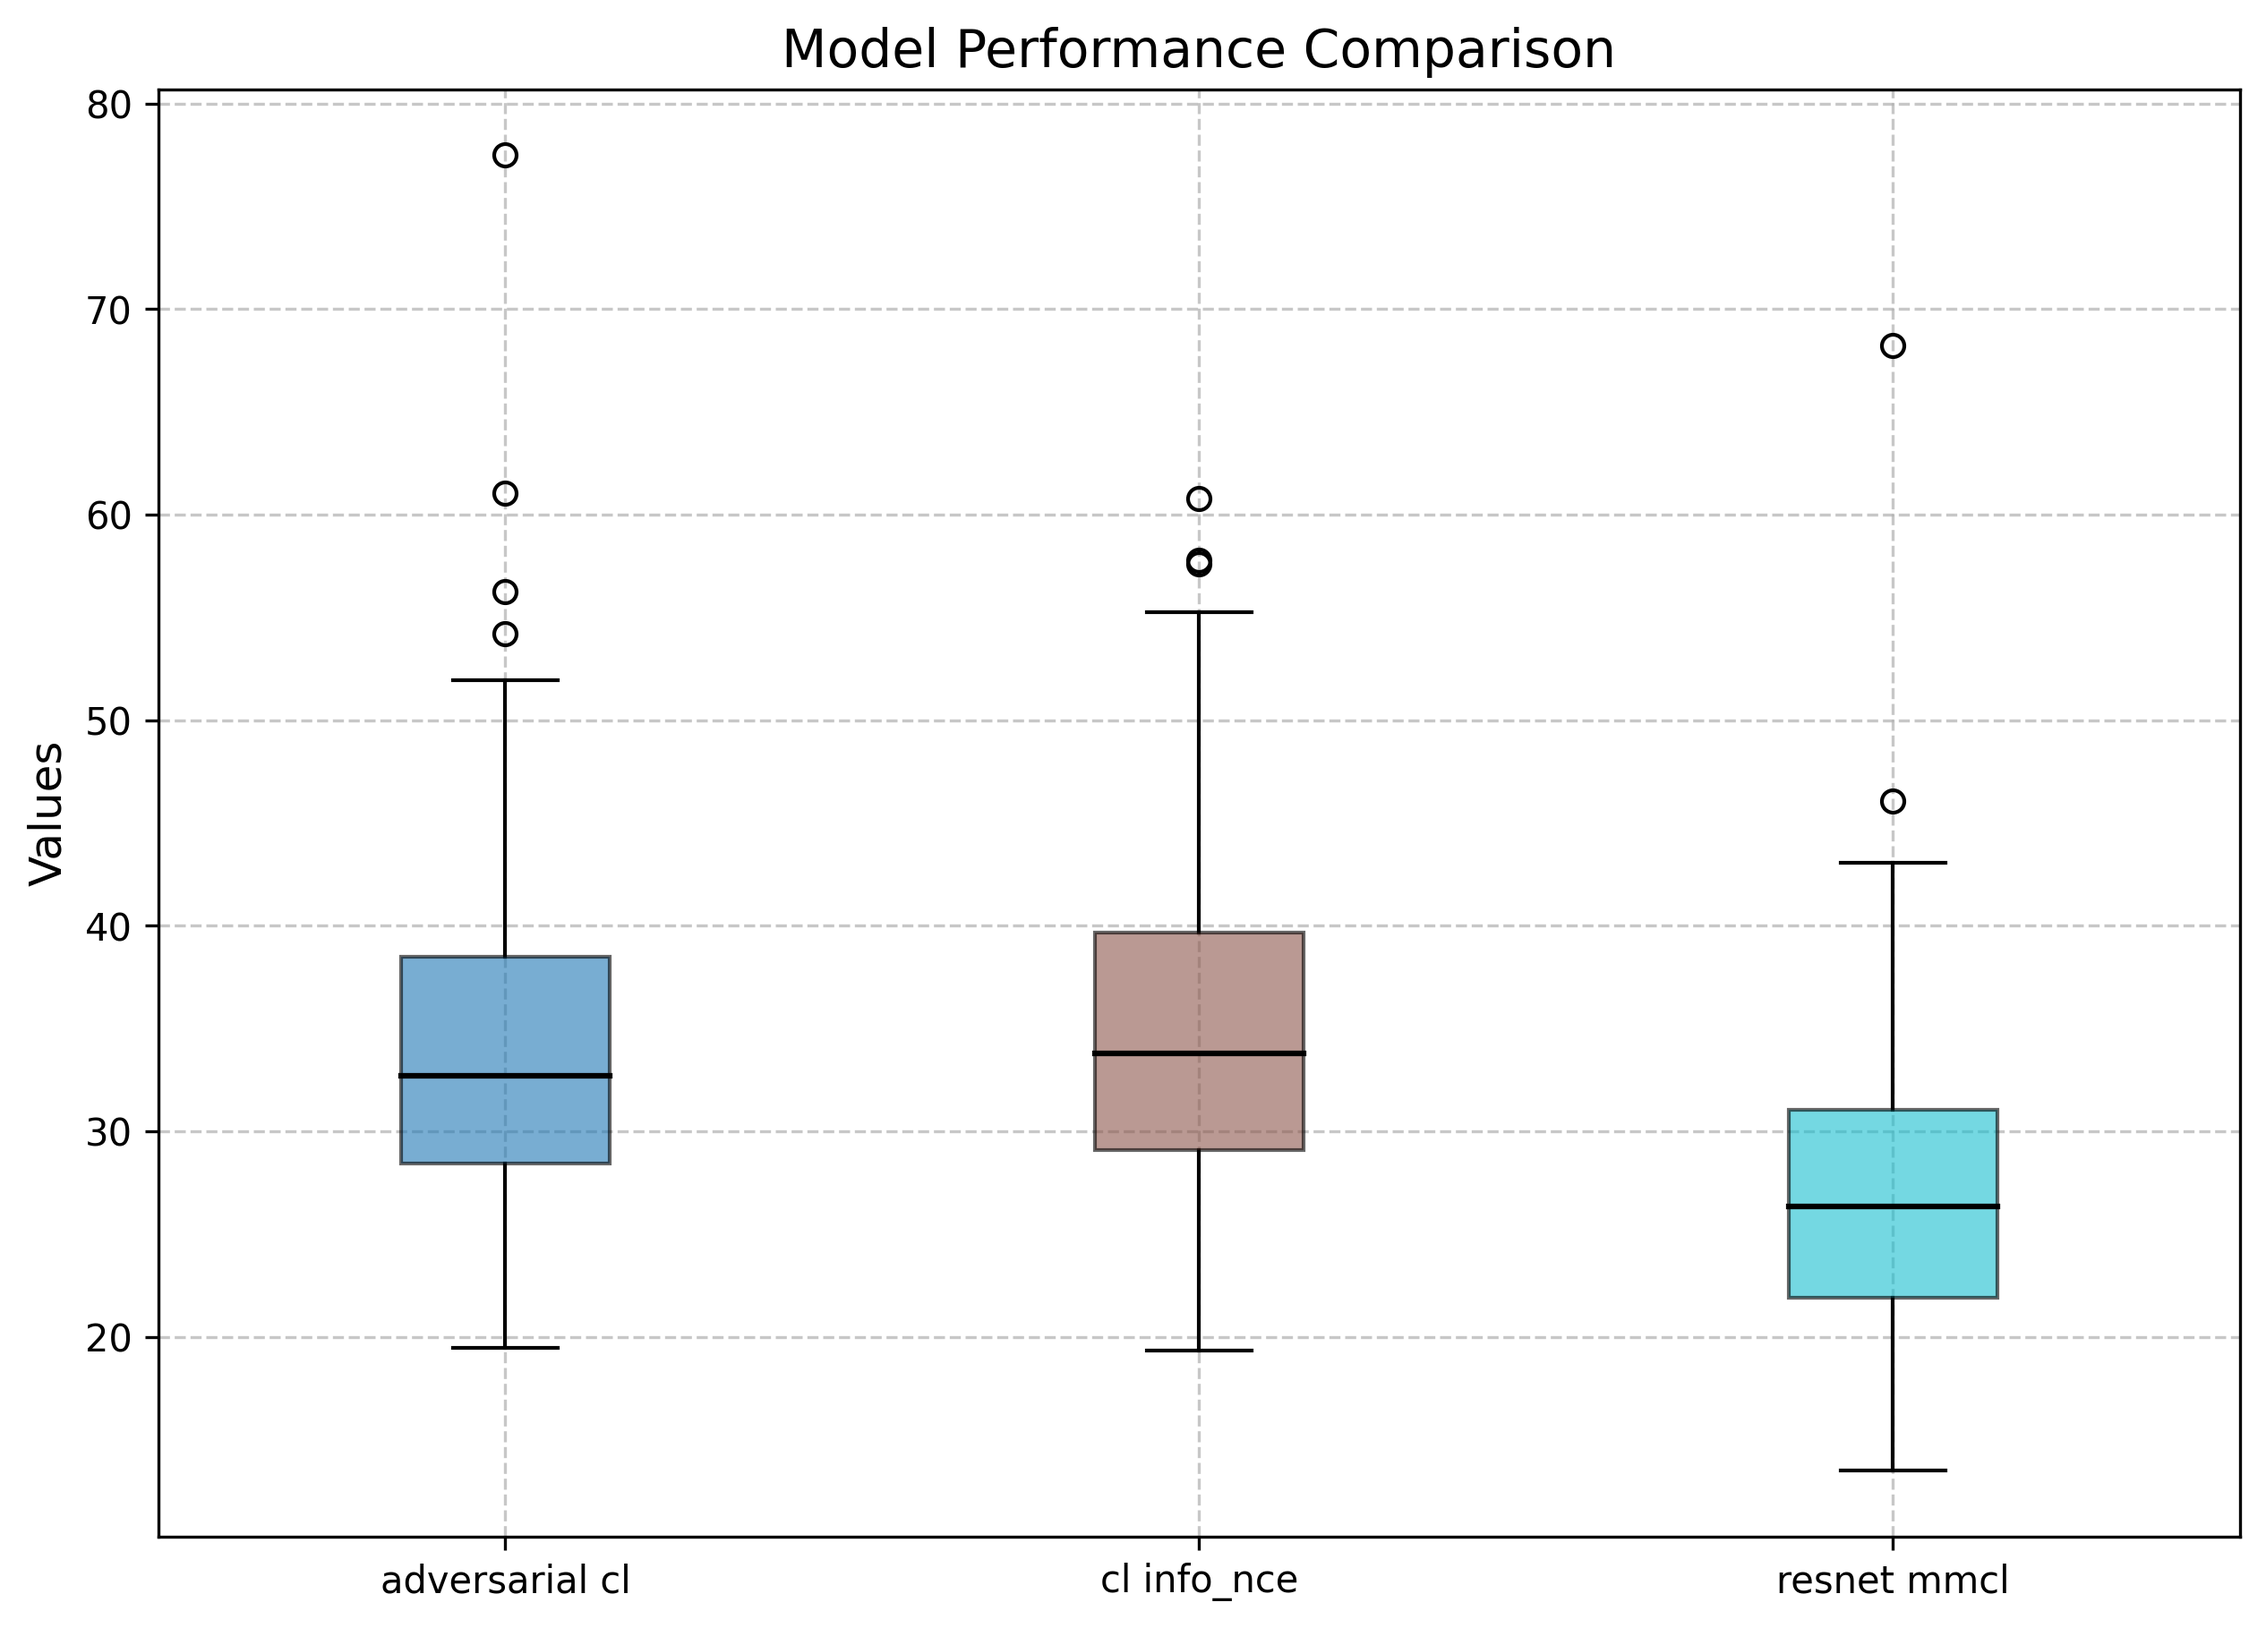
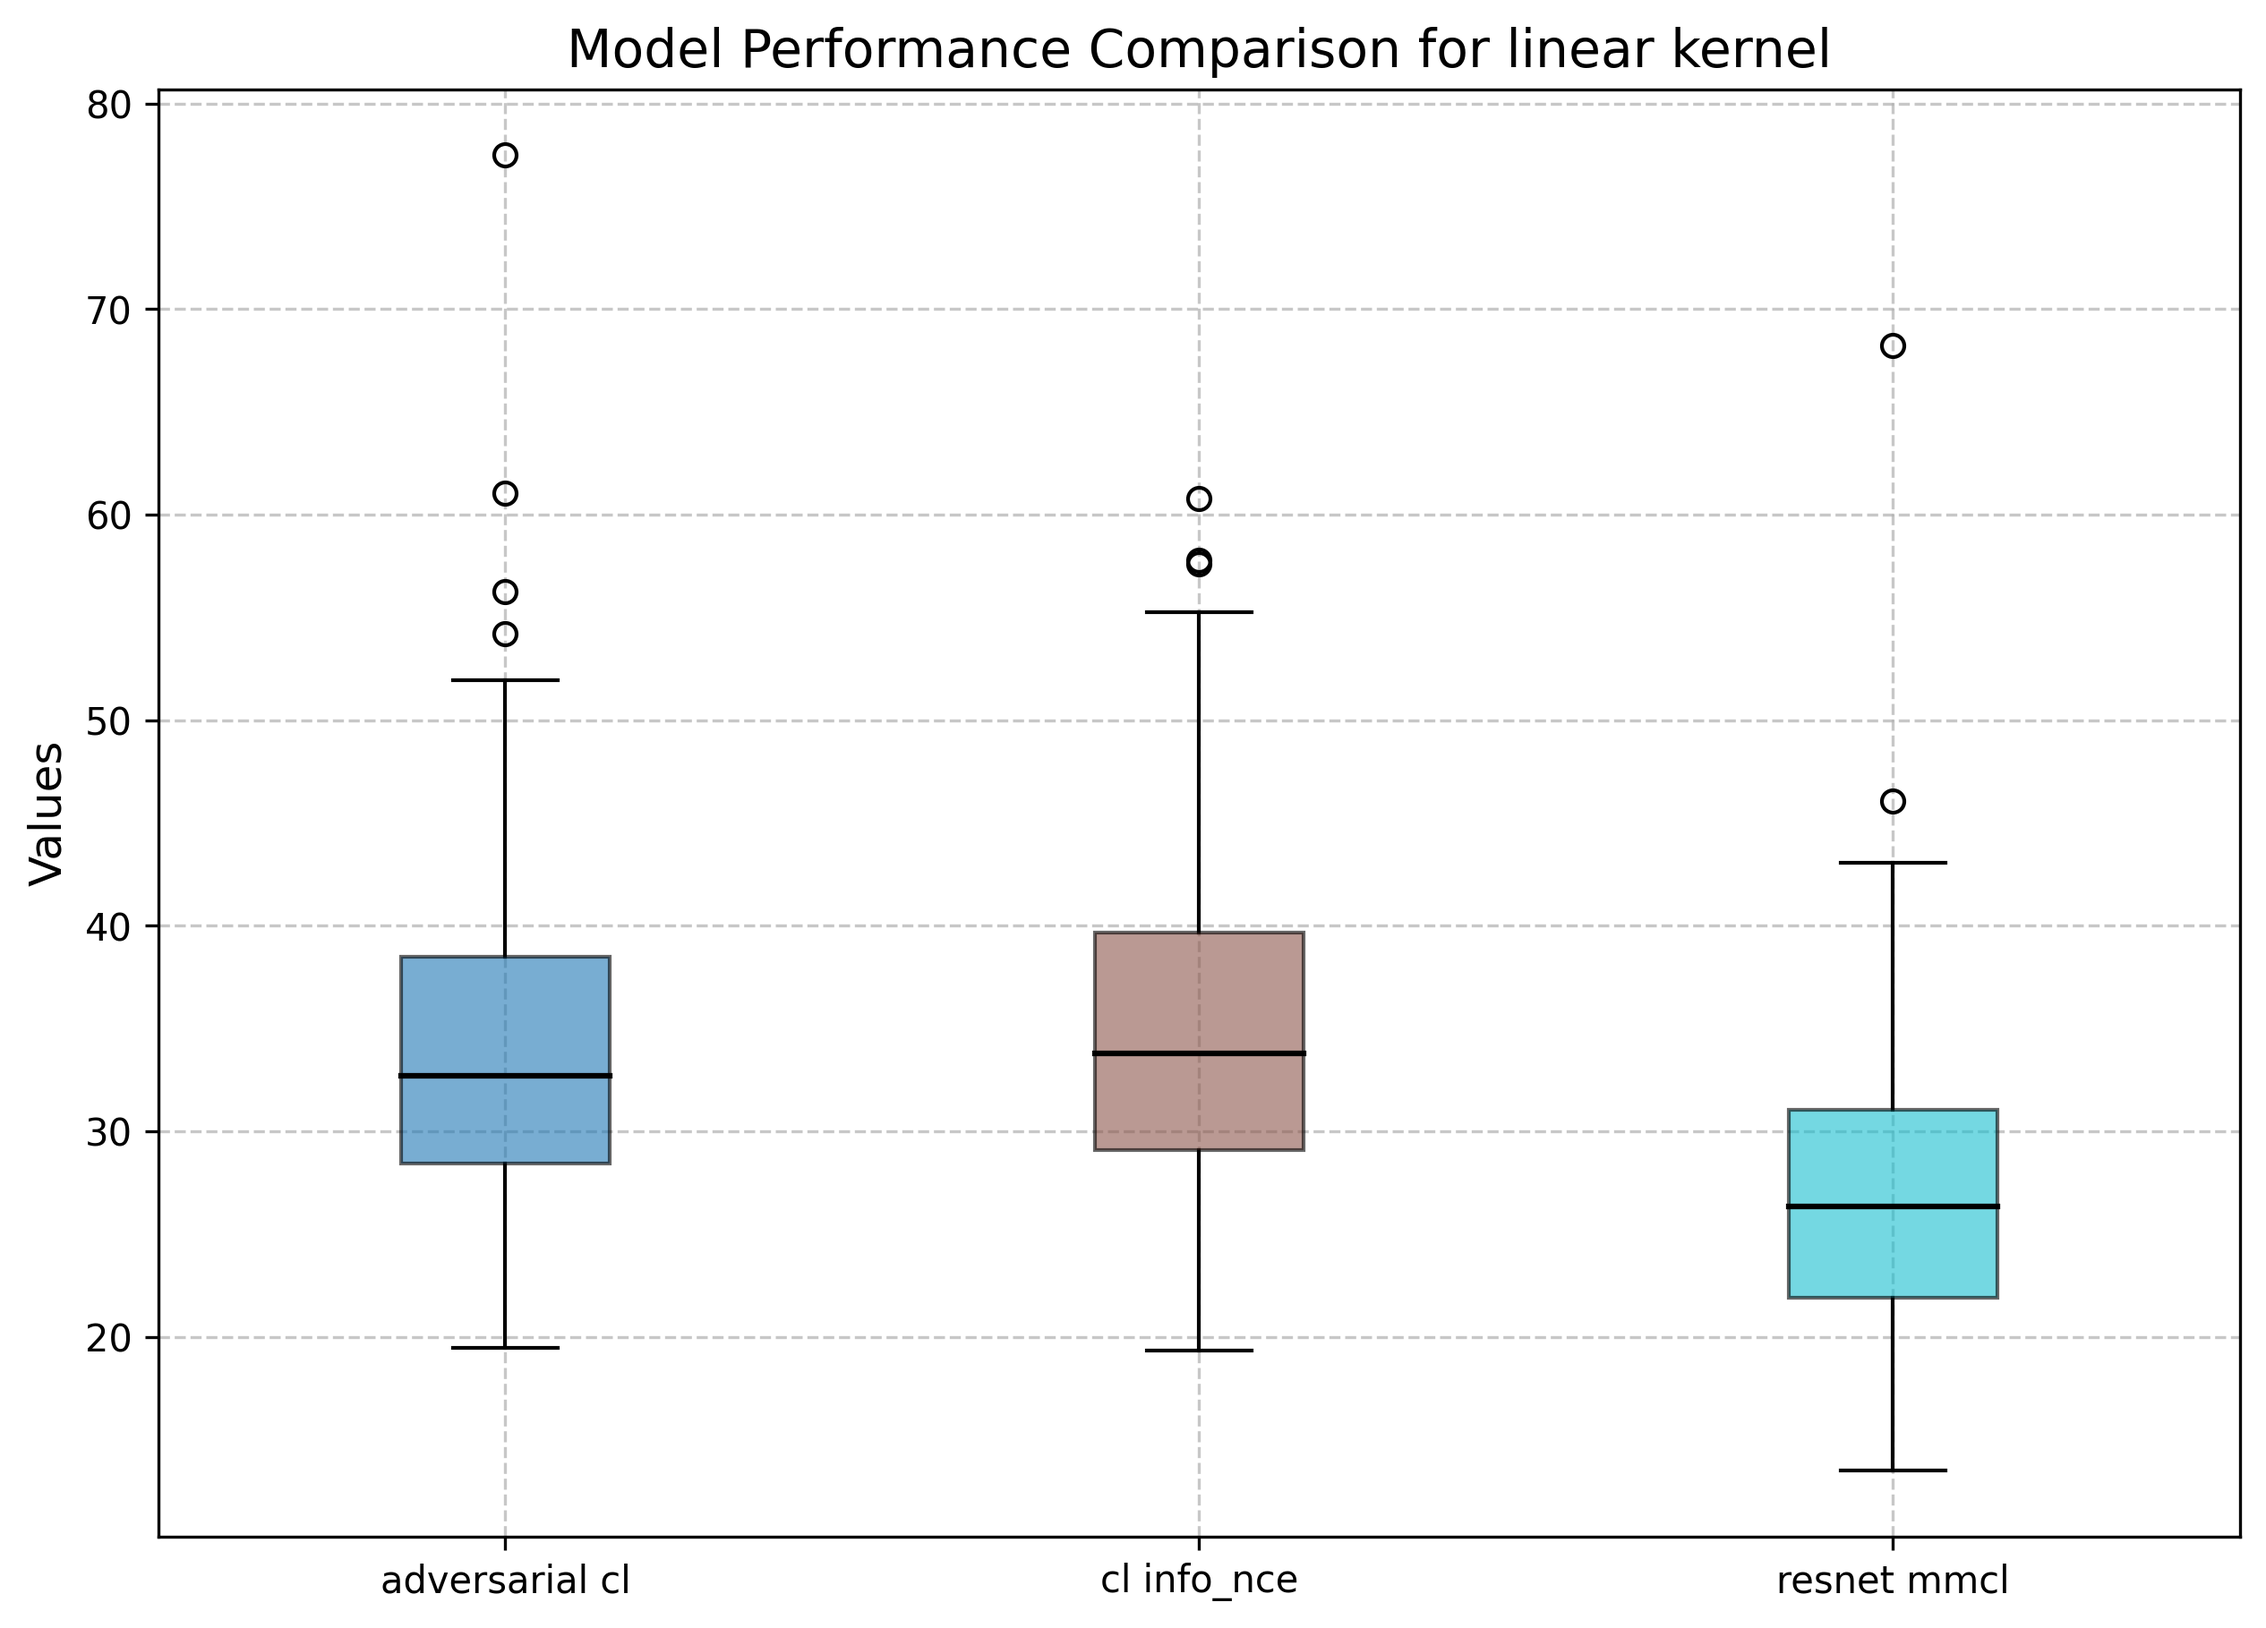
Small updates

Changed region(s): [[0.2497, 0.0, 0.7179, 0.0616], [0.7491, 0.0, 0.8115, 0.0616]]

diff --git a/plot_from_json/svm/svm_box_plot.py b/plot_from_json/svm/svm_box_plot.py
@@ -5,7 +5,7 @@ from collections import defaultdict
 import matplotlib.pyplot as plt
 import numpy as np
 
-file_name = "cl_info_nce-adversarial_cl-resnet_mmcl_rbf"
+file_name = "cl_info_nce-adversarial_cl-resnet_mmcl_linear"
 input_path = f"margin_results/{file_name}.json"
 output_dir = "plots/svm_margin"
 output_path = os.path.join(output_dir, f"{file_name}_boxplot_comparison.png")
@@ -49,7 +49,7 @@ for patch, color in zip(bp["boxes"], colors):
     patch.set(facecolor=color, alpha=0.6)
 
 # Add title and labels
-plt.title("Model Performance Comparison", fontsize=14)
+plt.title(f"Model Performance Comparison for {data['metadata']['kernel_type']} kernel", fontsize=14)
 plt.ylabel("Values", fontsize=12)
 plt.grid(True, linestyle="--", alpha=0.7)
 
